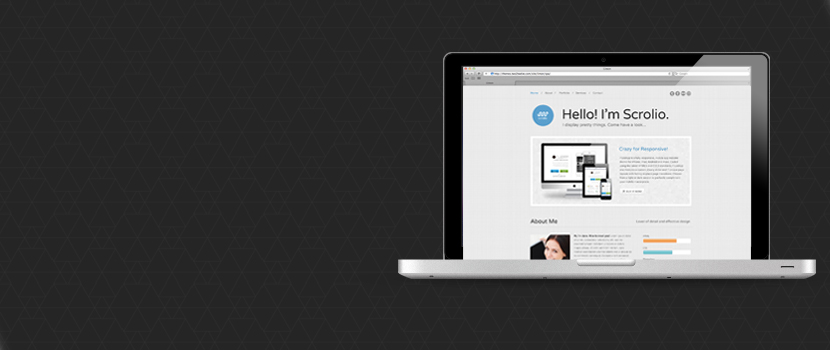
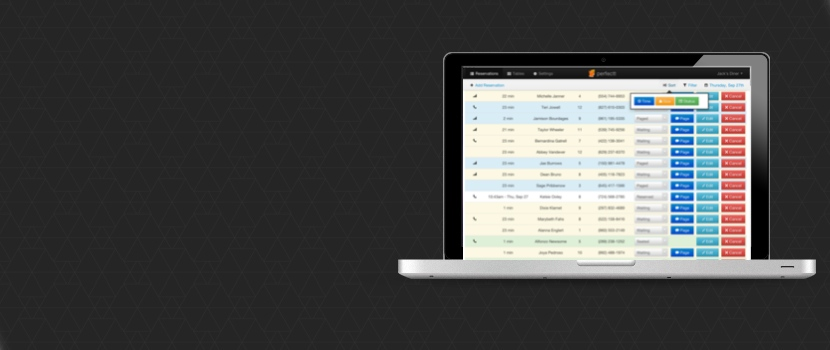
Updates

Changed region(s): [[0.5422, 0.1714, 0.9036, 0.7429]]

diff --git a/index.html b/index.html
@@ -125,33 +125,35 @@
 				<div id="slider" class="flexslider">
 					<ul class="slides">
 						<li>
-					      	<img src="img/content/slide-1.jpg" alt="" />
-							<div class="description light right_align">
+					      	<img src="img/content/slide-4.jpg" alt="" />
+							<div class="description dark left_align">
 								<h2>Bring your restaurant up to speed</h2>
 								<p>Reservations, table management, wait times, staff loads all from your iPad or internet enabled device.</p>
-								<a href="https://restaurant.perfec.tt/registerRestaurant" class="button orange">Register for free!</a>
+								<a href="https://restaurant.perfec.tt/registerRestaurant" class="button orange">Register your restaurant for free</a>
 							</div>
 					    </li>
 					    <li>
 					      	<img src="img/content/slide-2.jpg" alt=""/>
 							<div class="description dark right_align">
-								<h2>For Customers</h2>
-								<p>The customer app can be used to discover new restaurants, make reservations, and be paged by a restaurant once their table is ready.</p>
-								<p><span class="grayed">Completely free for customers, it helps make the end to end experience better.</span></p>
+								<h2>Enhance your customer experience</h2>
+								<p>The customer app can be used to discover new restaurants, make reservations, and be paged by a restaurant once their table is ready. Completely free for customers, it helps make the end to end experience better.</p>
                 <a href="https://itunes.apple.com/us/app/perfectt/id586003205?ls=1&amp;mt=8" class="button orange">Download the customer app</a>
 							</div>
 					    </li>
 						<li>
 					      	<img src="img/content/slide-3.jpg" alt="" />
+                  <div class="description dark right_align">
+                    <h2 class="far-right">Better times for your restaurant and customers</h2>
+                  </div>
 					    </li>
-					    <li>
+					    <!--<li>
 					      	<img src="img/content/slide-4.jpg" alt="" />
 							<div class="description dark left_align">
 								<h2>Simply, Impressive</h2>
 								<p>Manage your restaurant from your couch. Simple, intuitive, and free. Just Perfectt.</p>
 	
 							</div>
-					    </li>
+					    </li>-->
 					</ul>
 				</div>
 			</div>

diff --git a/css/base.css b/css/base.css
@@ -283,17 +283,21 @@ section#intro {
 				font-size: 27px;
 			}
 			.flexslider .slides li .description.dark h2 { color: #fff; }
+      .flexslider .slides li .description.dark h2.far-right {
+        text-align: right;
+        padding-top: 130px;
+      }
 			.flexslider .slides li .description p {
 				margin-bottom: 20px;
 				line-height: 22px;
 				 text-shadow: 0px 1px 2px #fff;
 			}
-			.flexslider .slides li .description.dark p { color: #f9f9f9; text-shadow: 0px 1px 2px #333; }
+			.flexslider .slides li .description.dark p { color: #fff; text-shadow: 0px 1px 2px #333; }
 			.flexslider .slides li .description.dark {
 				text-shadow: ##000 0px 1px 1px;
 			}
       .flexslider .slides li .description.dark .grayed {
-        color: #333;
+        color: #252525;
         text-shadow: 0px 1px 2px #f9f9f9;
       }
 	.flex-container {zoom: 1; position: relative;}
